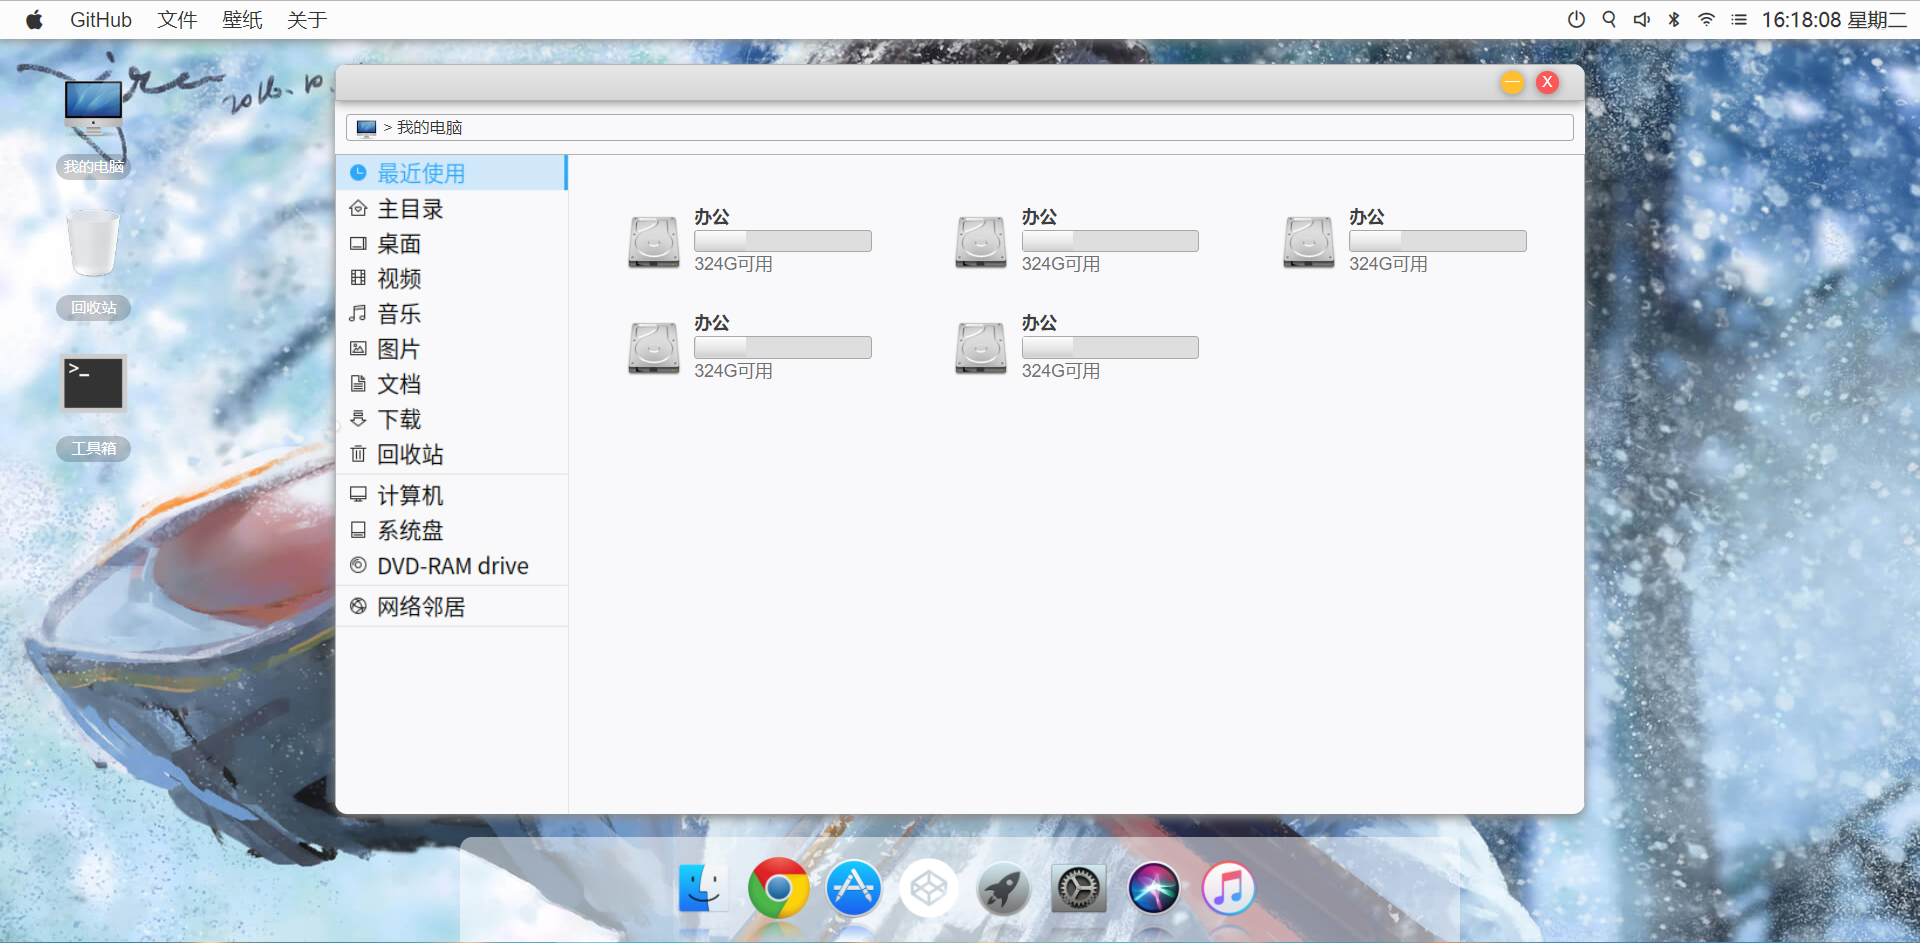
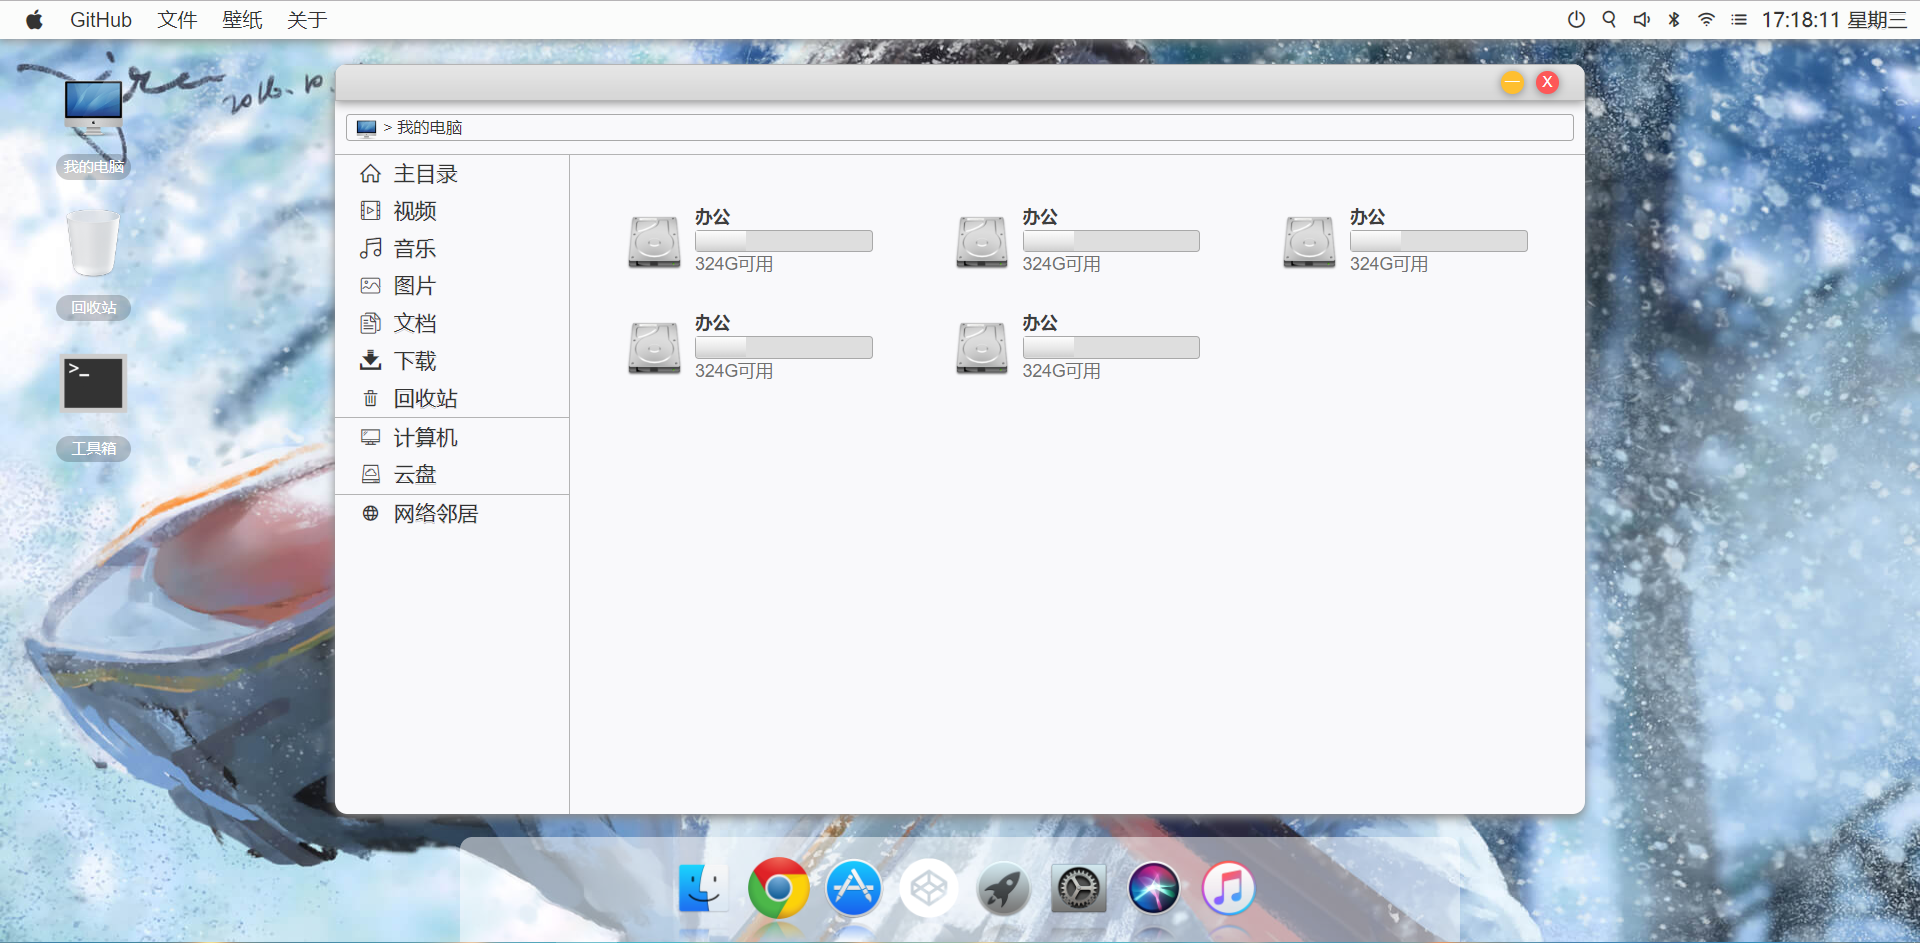
Added Weather View Function

diff --git a/src/components/Computer.vue b/src/components/Computer.vue
@@ -6,8 +6,21 @@
     </div>
     <div class="navigation"><img src="../assets/images/computer.png" alt="">&nbsp;&gt;&nbsp;我的电脑</div>
     <div class="content">
-      <div class="left-bg"></div>
-      <ul class="list-box">
+
+      <ul class="left-box">
+        <li class="iconfont">&#xe636;&nbsp;&nbsp;主目录</li>
+        <li class="iconfont">&#xe600;&nbsp;&nbsp;视频</li>
+        <li class="iconfont">&#xe680;&nbsp;&nbsp;音乐</li>
+        <li class="iconfont">&#xe665;&nbsp;&nbsp;图片</li>
+        <li class="iconfont">&#xe61f;&nbsp;&nbsp;文档</li>
+        <li class="iconfont">&#xe6ad;&nbsp;&nbsp;下载</li>
+        <li class="iconfont">&#xe61c;&nbsp;&nbsp;回收站</li>
+        <li class="iconfont" style="border-top: 1px solid #B4B4B4;">&#xe622;&nbsp;&nbsp;计算机</li>
+        <li class="iconfont">&#xe743;&nbsp;&nbsp;云盘</li>
+        <li class="iconfont" style="border-top: 1px solid #B4B4B4;">&#xe638;&nbsp;&nbsp;网络邻居</li>
+      </ul>
+
+      <ul class="right-box">
         <li><img src="../assets/images/disk.png" alt="">
           <div><span class="title">办公</span><span class="progress-bar"></span><span class="xtitle">324G可用</span></div>
         </li>
@@ -29,17 +42,17 @@
 </template>
 
 <script>
-  export default {
-    name: 'Computer',
-    props: {
-      computerShow: Boolean
-    },
-    methods: {
-      close() {
-        this.$emit('update:computerShow', false)
-      }
+export default {
+  name: 'Computer',
+  props: {
+    computerShow: Boolean
+  },
+  methods: {
+    close () {
+      this.$emit('update:computerShow', false)
     }
   }
+}
 </script>
 
 <style scoped>
@@ -101,33 +114,51 @@
     border: 1px #a9a9a9 solid;
     cursor: pointer;
   }
- .navigation img{
+
+  .navigation img {
     height: 20px;
     margin-left: 5px;
   }
+
   .content {
     display: flex;
     height: calc(100% - 30px);
-    border: 1px solid #B4B4B4;
+    border-top: 1px solid #B4B4B4;
     box-sizing: border-box;
   }
 
-  .content .left-bg {
-    display: inline-block;
-    width: 30%;
-    background: url(../assets/images/c.jpg) no-repeat no-repeat;
-    background-size: 100%;
-    border-right: 1px solid #E4E4E6;
+  .left-box {
+    width: 188px;
+    border-right: 1px solid #B4B4B4;
+    text-align: left;
+    box-sizing: border-box;
   }
 
-  .list-box {
+  .left-box li {
+    height: 30px;
+    line-height: 30px;
+    padding-left: 20px;
+    font-size: 17px;
+    text-align: left;
+    color: #333;
+    cursor: pointer;
+  }
+
+  .left-box li:hover {
+    color: #2DA7F8;
+    background-color: #D1E8FA;
+    border-right: 3px solid #2DA7F8;
+  }
+
+  .right-box {
     display: flex;
+    flex: 1;
     padding-top: 20px;
     flex-wrap: wrap;
     align-content: flex-start;
   }
 
-  .list-box li {
+  .right-box li {
     display: flex;
     height: 75px;
     padding: 10px 20px;
@@ -139,11 +170,11 @@
     cursor: pointer;
   }
 
-  .list-box li:hover {
+  .right-box li:hover {
     background: #dedede;
   }
 
-  .list-box li img {
+  .right-box li img {
     display: inline-block;
     margin-top: 8px;
     margin-right: 10px;
@@ -151,19 +182,19 @@
     height: 45px;
   }
 
-  .list-box li span {
+  .right-box li span {
     display: block;
     line-height: 20px;
     font-size: 14px;
     text-align: left;
   }
 
-  .list-box li .title {
+  .right-box li .title {
     color: #3e3e3e;
     font-weight: bold;
   }
 
-  .list-box li .xtitle {
+  .right-box li .xtitle {
     color: #717171;
   }
 

diff --git a/src/views/Home.vue b/src/views/Home.vue
@@ -11,21 +11,21 @@
       <ul class="header-right">
         <li class="iconfont">&#xe6c0;</li>
         <li class="iconfont">&#xe688;</li>
-        <li class="iconfont">&#xe6ca;</li>
+        <li class="iconfont" @click="openMusic">&#xe6ca;</li>
         <li class="iconfont">&#xe6a7;</li>
         <li class="iconfont">&#xe6cb;</li>
         <li class="iconfont">&#xe6b8;</li>
-        <li class="iconfont">{{time}}</li>
+        <li class="iconfont" @click="weather">{{time}}</li>
       </ul>
     </div>
-    <div class="content" :style="{backgroundImage: 'url(' + bgSrc + ')' }">
+    <div class="content" :style="{backgroundImage: 'url(' + bgSrc + ')' }" @click="weatherHide">
       <ul class="app-list">
         <li class="list-item" @click="computer"><img src="../assets/images/computer.png" alt=""><span>我的电脑</span></li>
         <li class="list-item"><img src="../assets/images/TrashIcon.png" alt=""><span>回收站</span></li>
         <li class="list-item" @click="tools"><img src="../assets/images/tool.png" alt=""><span>工具箱</span></li>
       </ul>
     </div>
-    <div id="container">
+    <div id="container" @click="weatherHide">
       <div id="dock">
         <ul>
           <li>
@@ -64,6 +64,12 @@
       </div>
     </div>
 
+
+    <transition name="slide-fade">
+      <div class="weather" v-show="weatherShow">
+        <iframe src="https://widget-page.heweather.net/h5/index.html?bg=3&md=036&lc=accu&key=09ce9044126b48f5b79c6d8f198e832a"></iframe>
+      </div>
+    </transition>
     <Music :musicShow.sync='musicShow' :musicNarrow.sync='musicNarrow'></Music>
     <Browser :browserShow.sync='browserShow' :browserNarrow.sync='browserNarrow'></Browser>
     <Wallpaper :wallShow.sync='wallShow' :bgSrc.sync='bgSrc'></Wallpaper>
@@ -103,6 +109,7 @@
         toolShow: false,
         computerShow: false,
         aboutShow: false,
+        weatherShow: false,
         bgSrc: ''
       }
     },
@@ -122,26 +129,44 @@
         this.musicShow = true
         this.musicNarrow = true
       },
+
       /* 打开浏览器 */
       openBrowser() {
         this.browserShow = true
         this.browserNarrow = true
       },
+
       /* 打开壁纸 */
       wallpaper() {
         this.wallShow = true
       },
+
       /* 打开工具箱 */
       tools() {
         this.toolShow = true
       },
+
       /* 打开我的电脑 */
       computer() {
         this.computerShow = true
       },
+
       about() {
         this.aboutShow = true
       },
+
+      weather() {
+        if (this.weatherShow) {
+          this.weatherShow = false
+        } else {
+          this.weatherShow = true
+        }
+      },
+
+      weatherHide() {
+        this.weatherShow = false
+      },
+
       newDate() {
         let now = new Date()
         let year = now.getFullYear() // 得到年份
@@ -173,7 +198,8 @@
           this.bgSrc = '/mac/img/bg.0e445a5d.jpg'
         }
       }
-    }
+    },
+    mounted() {}
   }
 </script>
 
@@ -320,5 +346,16 @@
   #container li:hover span {
     display: block;
     color: #fff;
+  }
+
+  .weather {
+    position: fixed;
+    top: 30px;
+    right: 0;
+  }
+
+  .weather iframe {
+    height: calc(100vh - 30px);
+    border: none;
   }
 </style>

diff --git a/src/assets/css/common.css b/src/assets/css/common.css
@@ -44,12 +44,12 @@ iframe {
 @font-face {
 	font-family: 'iconfont';
 	/* project id 1442270 */
-	src: url('//at.alicdn.com/t/font_1442270_695dv9v0nc8.eot');
-	src: url('//at.alicdn.com/t/font_1442270_695dv9v0nc8.eot?#iefix') format('embedded-opentype'),
-		url('//at.alicdn.com/t/font_1442270_695dv9v0nc8.woff2') format('woff2'),
-		url('//at.alicdn.com/t/font_1442270_695dv9v0nc8.woff') format('woff'),
-		url('//at.alicdn.com/t/font_1442270_695dv9v0nc8.ttf') format('truetype'),
-		url('//at.alicdn.com/t/font_1442270_695dv9v0nc8.svg#iconfont') format('svg');
+	src: url('//at.alicdn.com/t/font_1442270_e6y1ipyi5q.eot');
+	src: url('//at.alicdn.com/t/font_1442270_e6y1ipyi5q.eot?#iefix') format('embedded-opentype'),
+		url('//at.alicdn.com/t/font_1442270_e6y1ipyi5q.woff2') format('woff2'),
+		url('//at.alicdn.com/t/font_1442270_e6y1ipyi5q.woff') format('woff'),
+		url('//at.alicdn.com/t/font_1442270_e6y1ipyi5q.ttf') format('truetype'),
+		url('//at.alicdn.com/t/font_1442270_e6y1ipyi5q.svg#iconfont') format('svg');
 }
 
 .iconfont {
@@ -59,4 +59,20 @@ iframe {
 	-webkit-font-smoothing: antialiased;
 	-webkit-text-stroke-width: 0.2px;
 	-moz-osx-font-smoothing: grayscale;
+}
+
+/* 可以设置不同的进入和离开动画 */
+/* 设置持续时间和动画函数 */
+.slide-fade-enter-active {
+	transition: all .3s ease;
+}
+
+.slide-fade-leave-active {
+	transition: all .3s cubic-bezier(1.0, 0.5, 0.8, 1.0);
+}
+
+.slide-fade-enter,
+.slide-fade-leave-to {
+	transform: translateX(10px);
+	opacity: 0;
 }

diff --git a/src/components/Tools.vue b/src/components/Tools.vue
@@ -131,21 +131,29 @@
     margin-top: 10px;
     text-align: center;
     box-sizing: border-box;
-    background-image: linear-gradient(160deg, #00ffd5 20%,#008cff 80%);
-    border-radius: 20px;
   }
 
   .list-box li .bt {
     display: inline-block;
-    width: 100px;
-    line-height: 60px;
+    width: 80px;
+    line-height: 80px;
+    line-height: 80px;
     font-size: 48px;
     text-align: center;
     font-weight: 700;
     color: #fff;
+    background-image: linear-gradient(160deg, #166FEF 20%, #14B1F8 80%);
+    border-radius: 50%;
+    border: 5px solid #E9E9E9;
+  }
+
+  .list-box li .bt:hover {
+    background-color: #21D4FD;
+    background-image: linear-gradient(19deg, #21D4FD 0%, #B721FF 100%);
   }
 
   .list-box li .title {
-    color: #fff;
+    line-height: 40px;
+    color: #333;
   }
 </style>

diff --git a/README.md b/README.md
@@ -30,5 +30,6 @@ npm run lint
 ![](./screenshot/jietu3.png)
 ![](./screenshot/jietu4.png)
 ![](./screenshot/jietu5.png)
+![](./screenshot/jietu6.png)
 ### Customize configuration
 See [Configuration Reference](https://cli.vuejs.org/config/).
